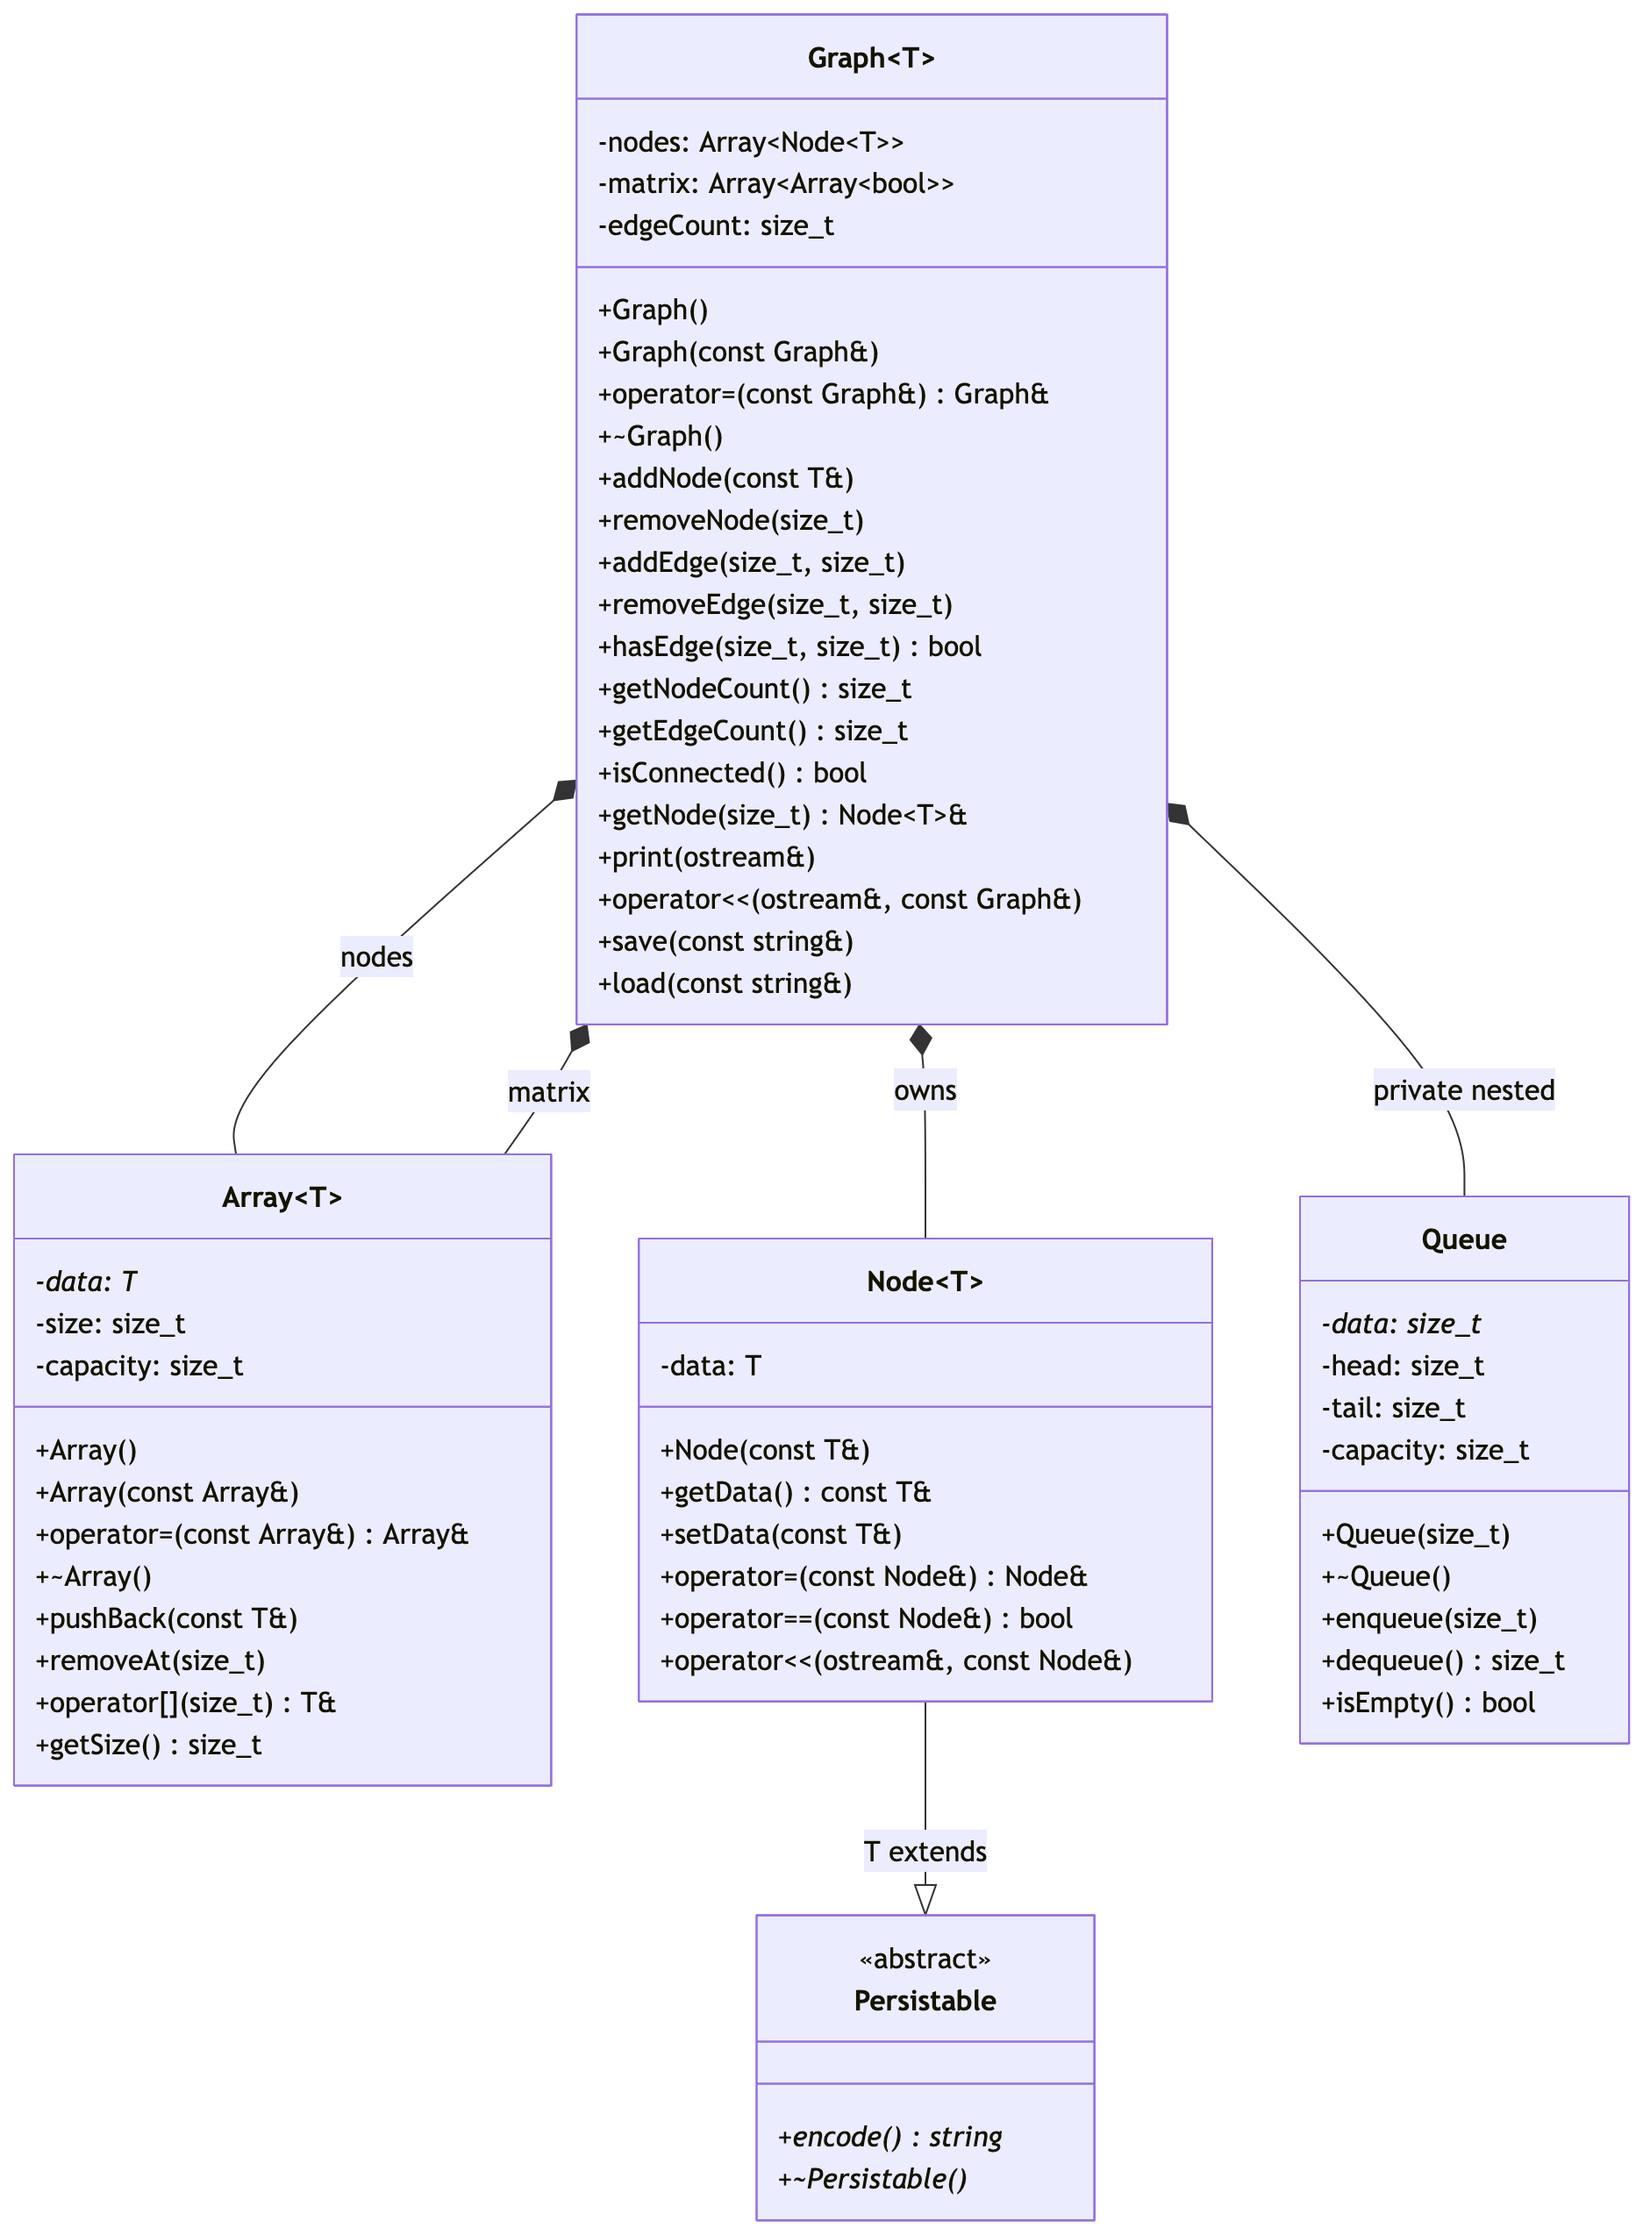
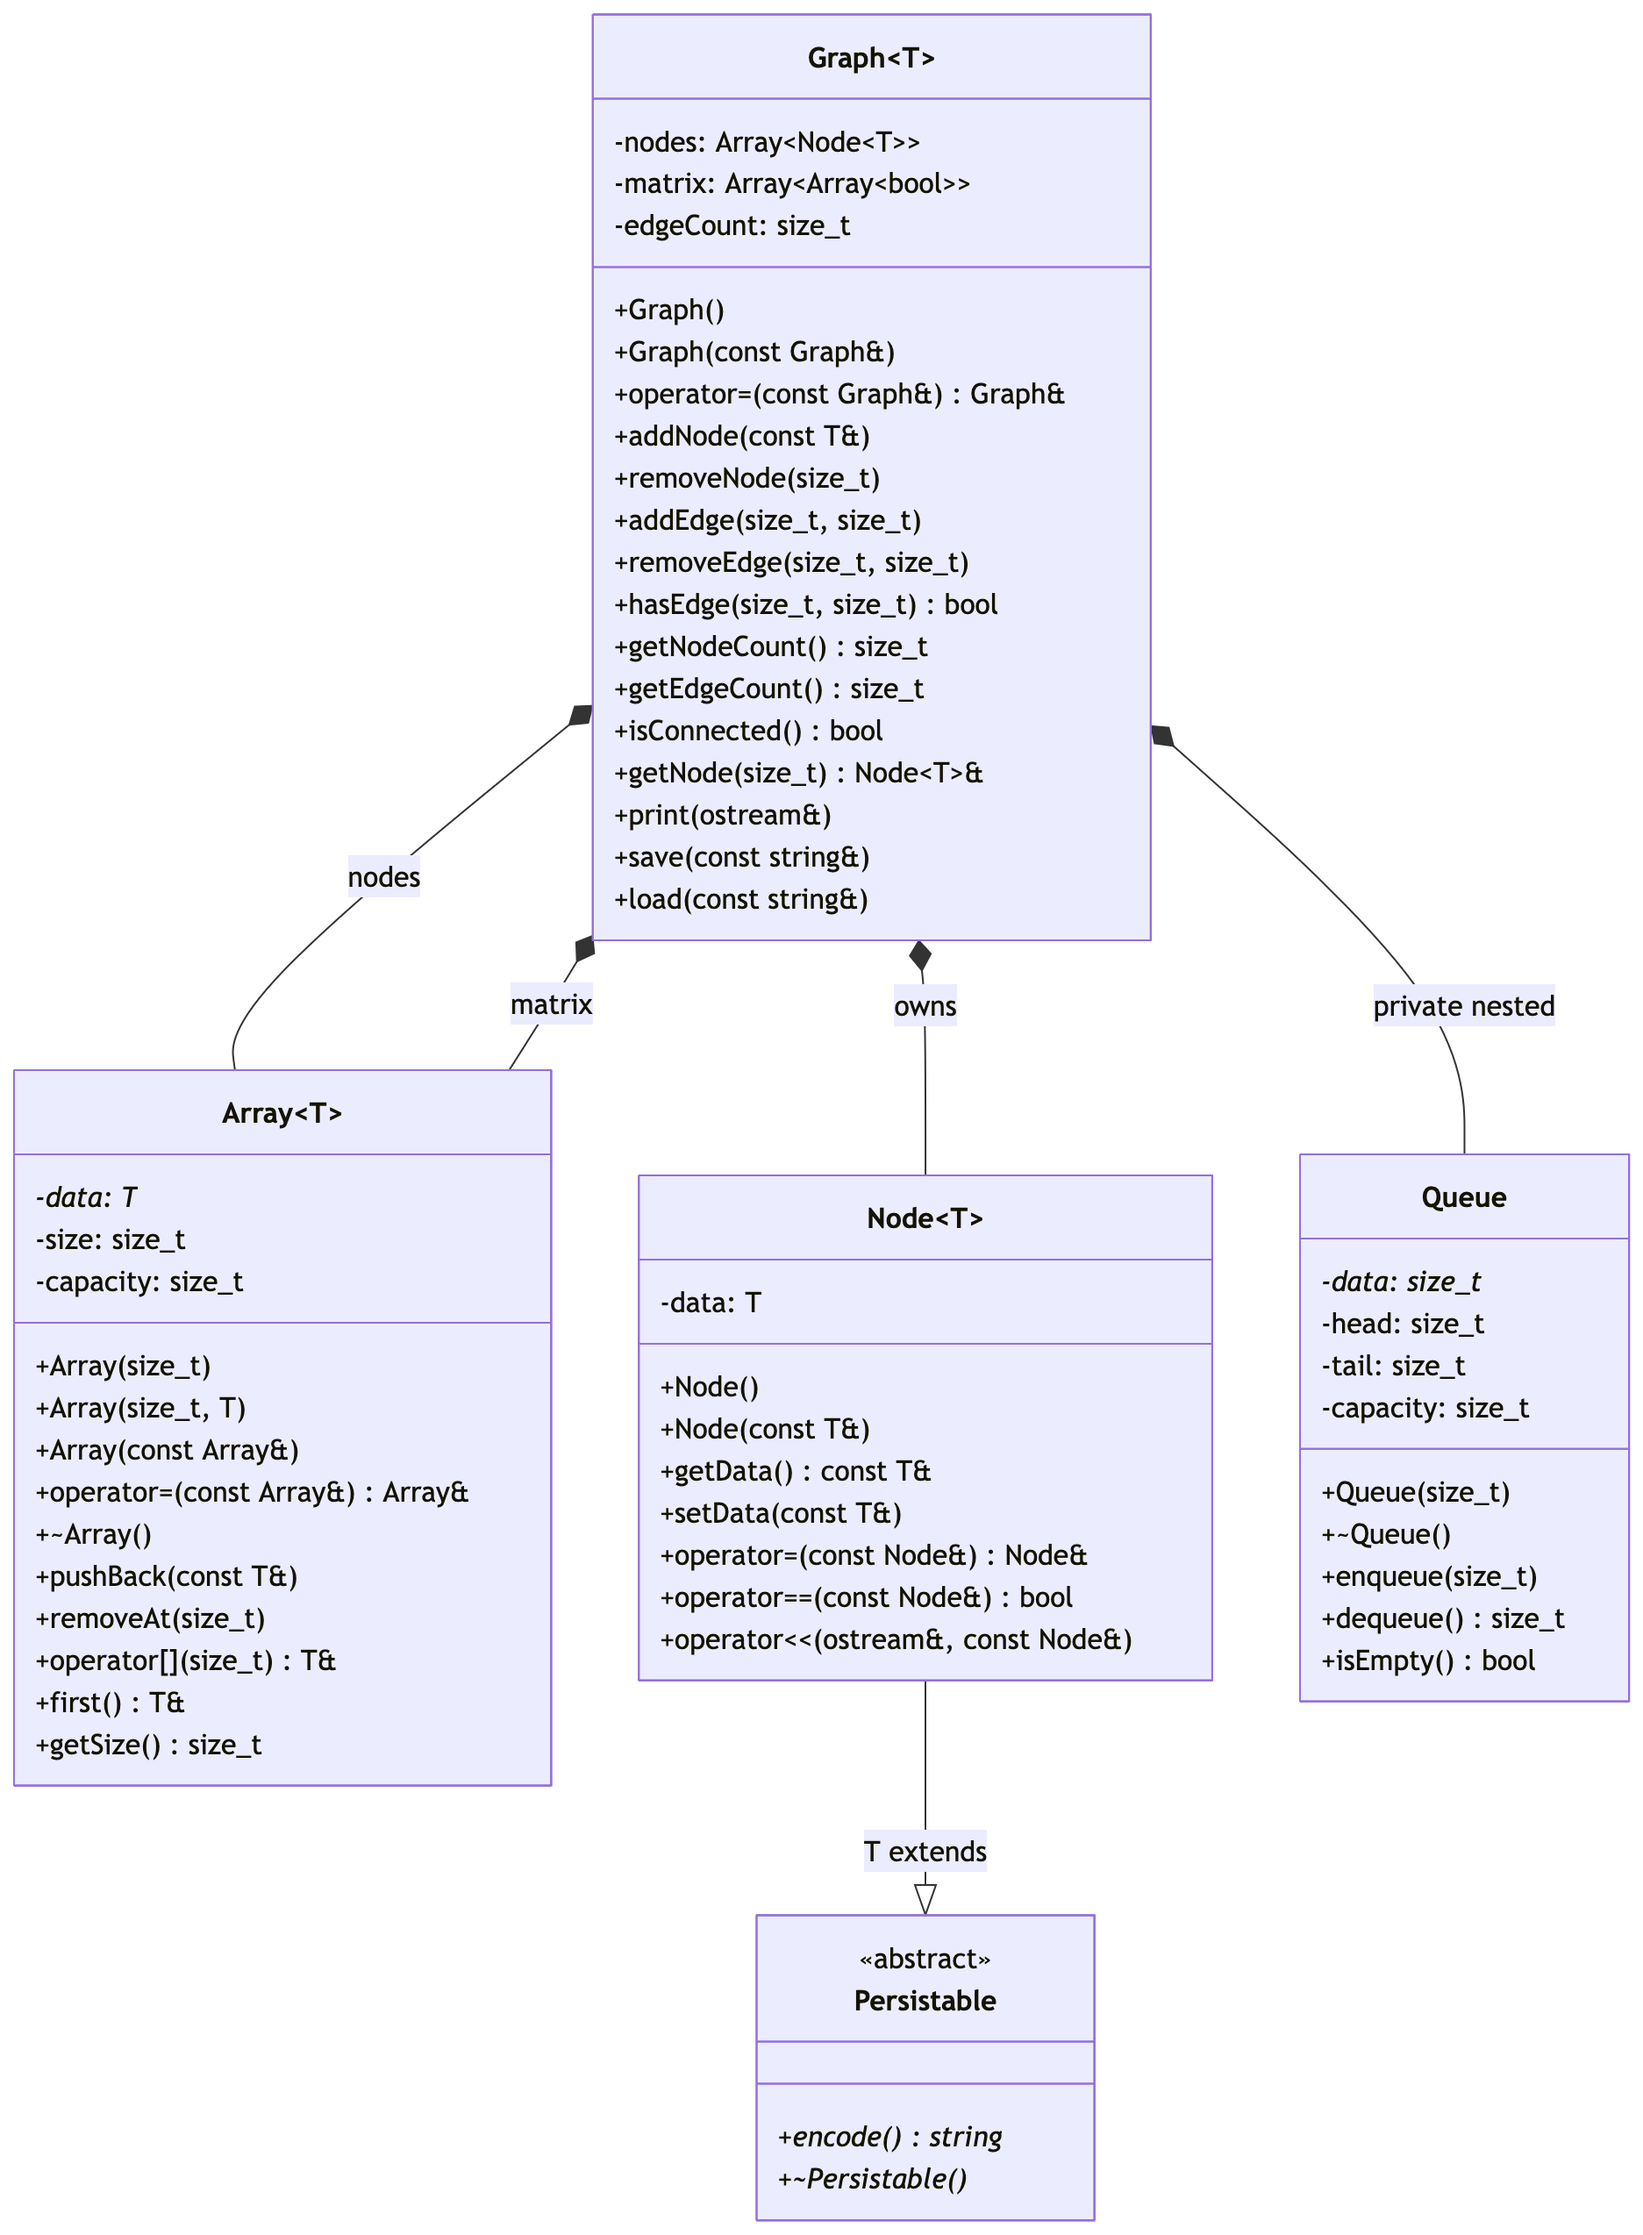
Update spec

diff --git a/docs/specification.md b/docs/specification.md
@@ -23,13 +23,15 @@ Used inside `Graph<T>` as `Array<Node<T>>` for the node list and as `Array<Array
 - `data: T*`: heap-allocated buffer
 - `size: size_t`: current number of elements
 - `capacity: size_t`: Allocated capacity of the buffer
-- `Array() -> Array`: constructor
+- `Array(size_t) -> Array`: constructor, takes initial capacity (default 10, minimum 1)
+- `Array(size_t, T) -> Array`: constructor, creates array of given size filled with default value
 - `Array(const Array&) -> Array`: copy constructor
 - `operator= -> Array&`: Deep copy assignment
 - `~Array()`: destructor
 - `pushBack(const T&)`: append element, double capacity if needed
 - `removeAt(size_t)`: removes element at index and shifts other elements down
 - `operator[](size_t) -> T&`: Element access, throws error if out of bounds
+- `first() -> T&`: returns reference to the first element, throws error if empty
 - `getSize() -> size_t`: returns the current number of elements
 
 ### Node
@@ -39,6 +41,7 @@ Wraps a single piece of data of type `T`.
 #### Members and Methods
 
 - `data: T`: the value stored by the node
+- `Node()`: default constructor
 - `Node(const T&)`: constructor
 - `getData() -> const T&`
 - `setData(const T&)`
@@ -60,10 +63,9 @@ Owns a dynamic node array and the associated adjacency matrix. `T` must derive f
 - `Graph()`: constructor
 - `Graph(const Graph&)`: copy constructor
 - `operator=(const Graph&)`: deep copy assignment
-- `~Graph()`: destructor
 - `addNode(const T&)`: add node, reallocates if needed
 - `removeNode(size_t):` remove node at index, uses the `Array::removeAt()` method, and removes the row and column from the matrix. Throws error if out of bounds.
-- `addEdge(size_t, size_t)`: connects nodes `i` and `j`, no-op if edge already exists. Throws error if out of bounds, or `i == j` (loop).
+- `addEdge(size_t, size_t)`: connects nodes `i` and `j`, no-op if edge already exists. Throws `std::out_of_range` if out of bounds, or `GraphError::SelfLoopNotAllowed` if `i == j` (loop).
 - `removeEdge(size_t, size_t)`: no-op if edge does not exist. Throws errors if out of bounds.
 - `hasEdge(size_t, size_t) -> bool`: error if out of bounds
 - `getNodeCount() -> size_t`: returns `nodes.getSize()`
@@ -95,7 +97,7 @@ A simple heap-allocated FIFO queue, using a circular buffer. Declared as a priva
 - `dequeue() -> size_t`: returns index, moves `head` forward with wrapping
 - `isEmpty() -> bool`
 
-## UML diagram
+## UML Diagram
 
 ![](./uml-diagram/uml-diagram.png)
 
